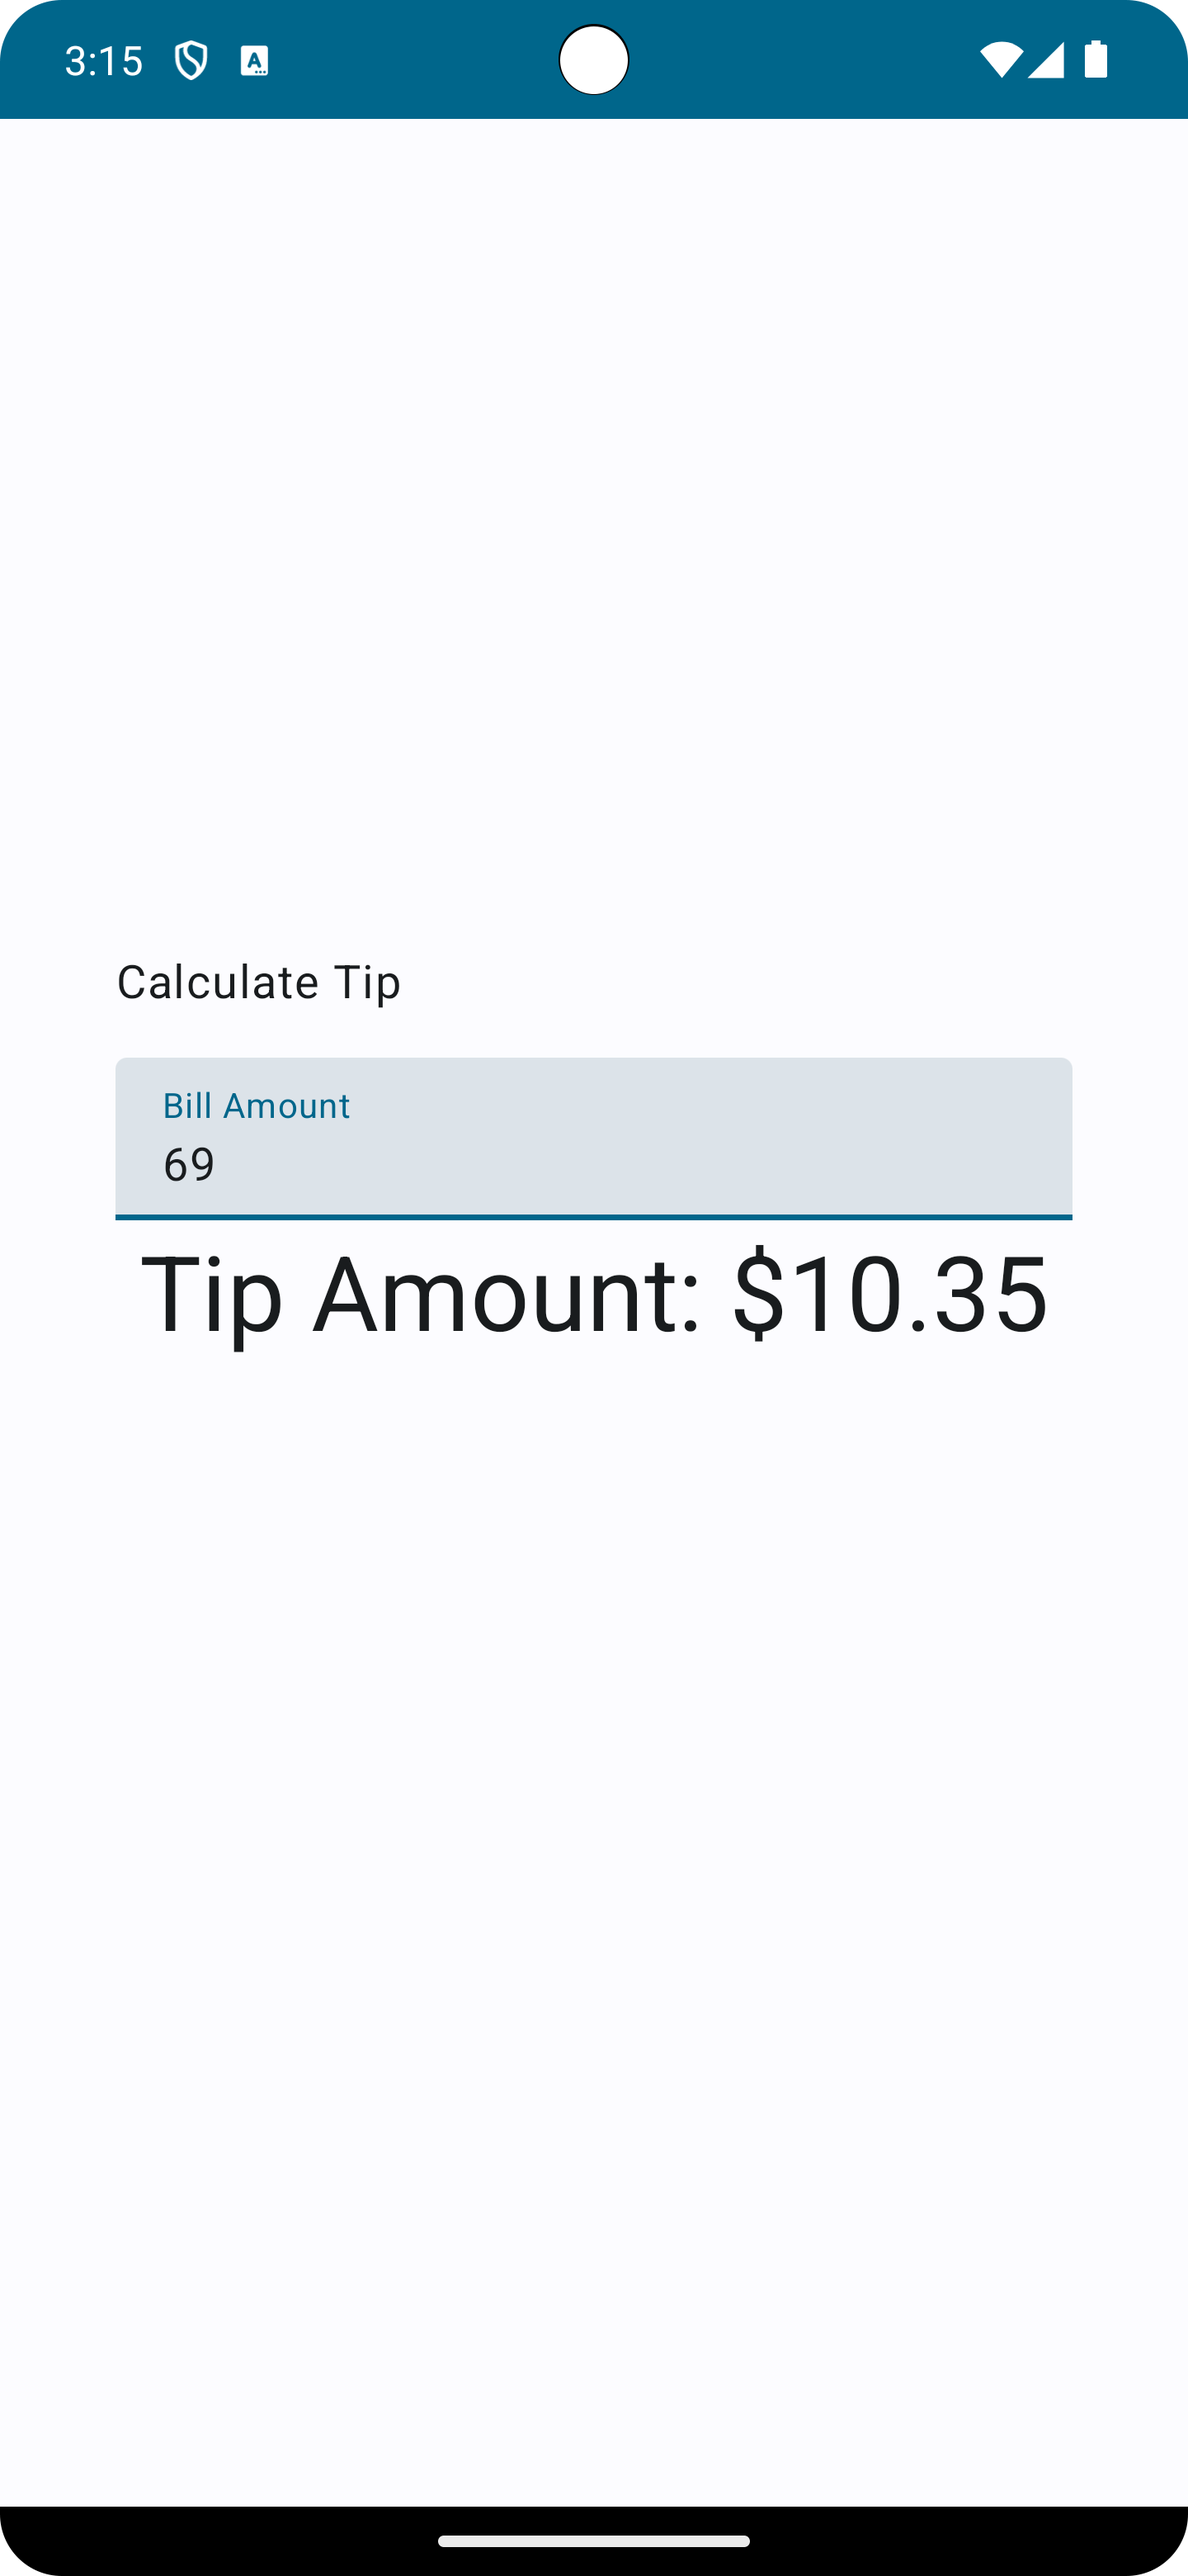
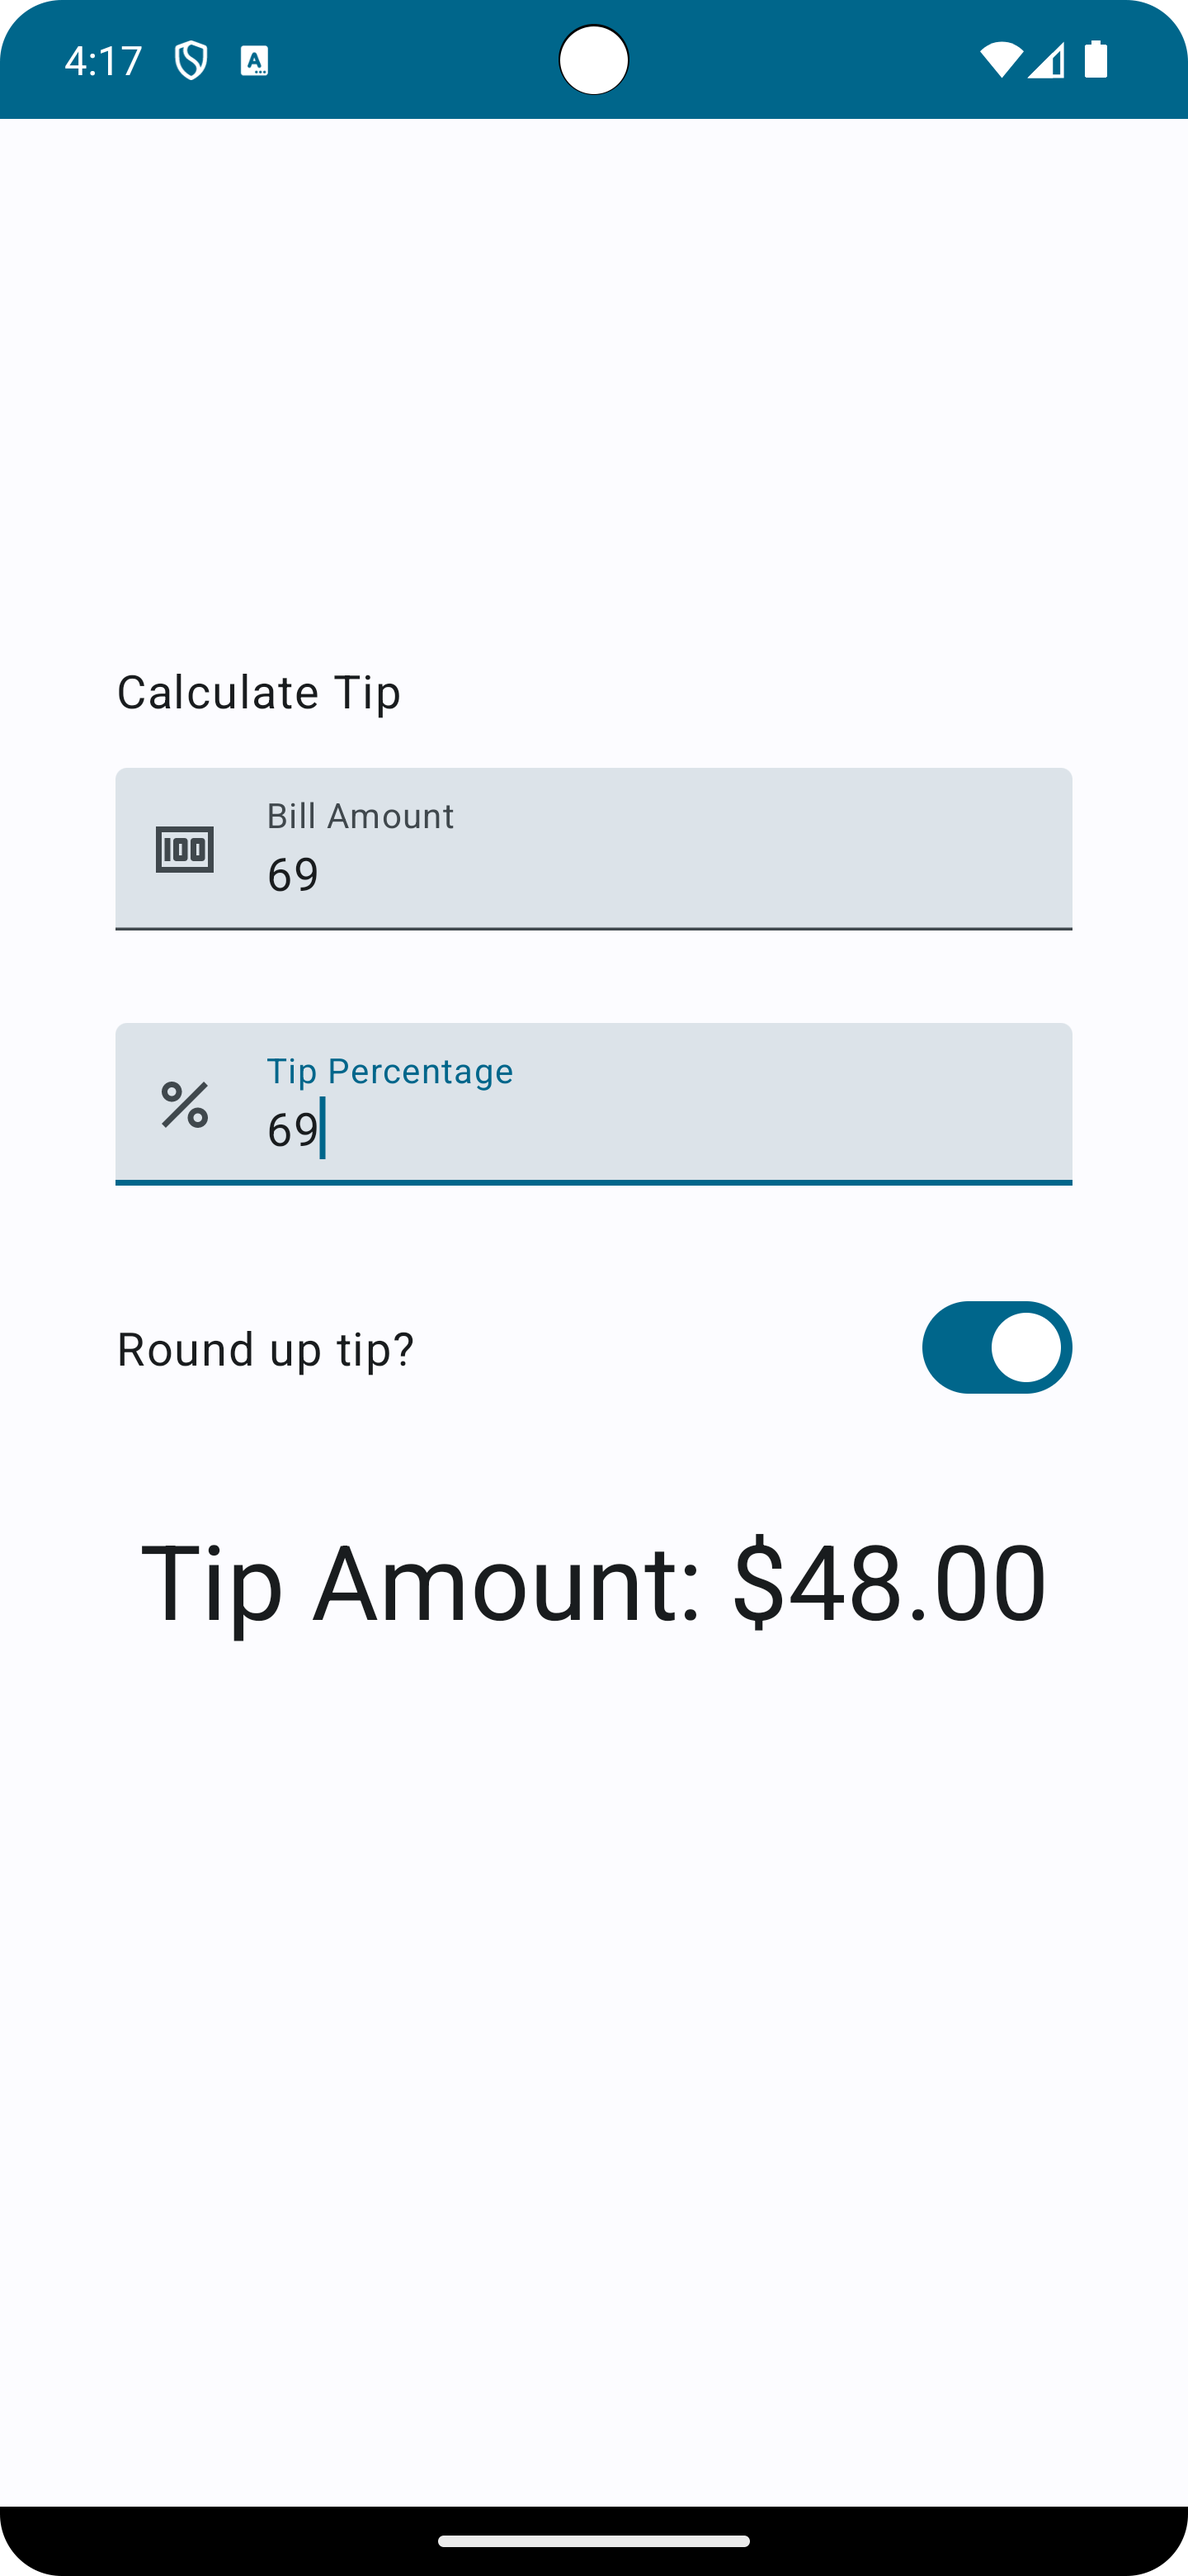
Add tests

diff --git a/TipCalculator/app/src/main/java/com/example/tipcalculator/MainActivity.kt b/TipCalculator/app/src/main/java/com/example/tipcalculator/MainActivity.kt
@@ -3,35 +3,44 @@ package com.example.tipcalculator
 import android.os.Bundle
 import androidx.activity.ComponentActivity
 import androidx.activity.compose.setContent
+import androidx.annotation.DrawableRes
+import androidx.annotation.StringRes
 import androidx.compose.foundation.layout.Arrangement
 import androidx.compose.foundation.layout.Column
+import androidx.compose.foundation.layout.Row
 import androidx.compose.foundation.layout.Spacer
 import androidx.compose.foundation.layout.fillMaxSize
 import androidx.compose.foundation.layout.fillMaxWidth
 import androidx.compose.foundation.layout.height
 import androidx.compose.foundation.layout.padding
 import androidx.compose.foundation.layout.safeDrawingPadding
+import androidx.compose.foundation.layout.size
 import androidx.compose.foundation.layout.statusBarsPadding
+import androidx.compose.foundation.layout.wrapContentWidth
 import androidx.compose.foundation.rememberScrollState
 import androidx.compose.foundation.text.KeyboardOptions
 import androidx.compose.foundation.verticalScroll
+import androidx.compose.material3.Icon
 import androidx.compose.material3.MaterialTheme
 import androidx.compose.material3.Surface
+import androidx.compose.material3.Switch
 import androidx.compose.material3.Text
 import androidx.compose.material3.TextField
 import androidx.compose.runtime.Composable
-import androidx.compose.runtime.MutableState
 import androidx.compose.runtime.getValue
 import androidx.compose.runtime.mutableStateOf
 import androidx.compose.runtime.remember
 import androidx.compose.runtime.setValue
 import androidx.compose.ui.Alignment
 import androidx.compose.ui.Modifier
+import androidx.compose.ui.res.painterResource
 import androidx.compose.ui.res.stringResource
+import androidx.compose.ui.text.input.ImeAction
 import androidx.compose.ui.text.input.KeyboardType
 import androidx.compose.ui.tooling.preview.Preview
 import androidx.compose.ui.unit.dp
 import com.example.tipcalculator.ui.theme.TipCalculatorTheme
+import org.jetbrains.annotations.VisibleForTesting
 import java.text.NumberFormat
 
 
@@ -56,9 +65,13 @@ class MainActivity : ComponentActivity() {
 @Composable
 fun TipTimeLayout() {
     var amountInput by remember { mutableStateOf("") }
+    var tipInput by remember { mutableStateOf("") }
+    var roundUp by remember { mutableStateOf(false) }
 
     val amount = amountInput.toDoubleOrNull() ?: 0.0
-    val tip = calculateTip(amount)
+    val tipPercent = tipInput.toDoubleOrNull() ?: 0.0
+
+    val tip = calculateTip(amount, tipPercent, roundUp)
 
     Column(
         modifier = Modifier
@@ -76,9 +89,35 @@ fun TipTimeLayout() {
                 .align(alignment = Alignment.Start)
         )
         EditNumberField(
+            label = R.string.bill_amount,
+            leadingIcon = R.drawable.money,
+            keyboardOptions = KeyboardOptions.Default.copy(
+                keyboardType = KeyboardType.Number,
+                imeAction = ImeAction.Next
+            ),
             value = amountInput,
-            onValueChange = { amountInput = it },
-            modifier = Modifier.padding(bottom = 32.dp).fillMaxWidth()
+            onValueChanged = { amountInput = it },
+            modifier = Modifier
+                .padding(bottom = 32.dp)
+                .fillMaxWidth()
+        )
+        EditNumberField(
+            label = R.string.how_was_the_service,
+            leadingIcon = R.drawable.percent,
+            keyboardOptions = KeyboardOptions.Default.copy(
+                keyboardType = KeyboardType.Number,
+                imeAction = ImeAction.Done
+            ),
+            value = tipInput,
+            onValueChanged = { tipInput = it },
+            modifier = Modifier
+                .padding(bottom = 32.dp)
+                .fillMaxWidth()
+        )
+        RoundTheTipRow(
+            roundUp = roundUp,
+            onRoundUpChanged = { roundUp = it },
+            modifier = Modifier.padding(bottom = 32.dp)
         )
         Text(
             text = stringResource(R.string.tip_amount, tip),
@@ -90,24 +129,57 @@ fun TipTimeLayout() {
 
 @Composable
 fun EditNumberField(
+    @StringRes label: Int,
+    @DrawableRes leadingIcon: Int,
+    keyboardOptions: KeyboardOptions,
     value: String,
-    onValueChange: (String) -> Unit,
+    onValueChanged: (String) -> Unit,
     modifier: Modifier = Modifier
 ) {
-
-
     TextField(
         value = value,
-        onValueChange = onValueChange,
-        modifier = Modifier.fillMaxWidth(),
-        label = { Text(stringResource(R.string.bill_amount)) },
+        leadingIcon = { Icon(painter = painterResource(id = leadingIcon), null) },
+        onValueChange = onValueChanged,
+        modifier = modifier,
+        label = { Text(stringResource(label)) },
         singleLine = true,
-        keyboardOptions = KeyboardOptions(keyboardType = KeyboardType.Number),
+        keyboardOptions = keyboardOptions
     )
 }
 
-private fun calculateTip(amount: Double, tipPercent: Double = 15.0): String {
-    val tip = tipPercent / 100 * amount
+@Composable
+fun RoundTheTipRow(
+    roundUp: Boolean,
+    onRoundUpChanged: (Boolean) -> Unit,
+    modifier: Modifier = Modifier
+) {
+    Row(
+        modifier = modifier
+            .fillMaxWidth()
+            .size(48.dp),
+        verticalAlignment = Alignment.CenterVertically
+    ) {
+        Text(text = stringResource(R.string.round_up_tip))
+        Switch(
+            modifier = Modifier
+                .fillMaxWidth()
+                .wrapContentWidth(Alignment.End),
+            checked = roundUp,
+            onCheckedChange = onRoundUpChanged,
+        )
+    }
+}
+
+@VisibleForTesting
+internal fun calculateTip(
+    amount: Double,
+    tipPercent: Double = 15.0,
+    roundUp: Boolean
+): String {
+    var tip = tipPercent / 100 * amount
+    if (roundUp) {
+        tip = kotlin.math.ceil(tip)
+    }
     return NumberFormat.getCurrencyInstance().format(tip)
 }
 

diff --git a/TipCalculator/app/src/androidTest/java/com/example/tipcalculator/TipUITests.kt b/TipCalculator/app/src/androidTest/java/com/example/tipcalculator/TipUITests.kt
@@ -1,0 +1,31 @@
+package com.example.tipcalculator
+
+import androidx.compose.ui.test.junit4.createComposeRule
+import androidx.compose.ui.test.onNodeWithText
+import androidx.compose.ui.test.performTextInput
+import com.example.tipcalculator.ui.theme.TipCalculatorTheme
+import org.junit.Rule
+import org.junit.Test
+import java.text.NumberFormat
+
+class TipUITests {
+    @get:Rule
+    val composeTestRule = createComposeRule()
+
+    @Test
+    fun calculate_20_percent_tip() {
+        composeTestRule.setContent {
+            TipCalculatorTheme {
+                TipTimeLayout()
+            }
+        }
+        composeTestRule.onNodeWithText("Bill Amount")
+            .performTextInput("10")
+        composeTestRule.onNodeWithText("Tip Percentage")
+            .performTextInput("20")
+        val expectedTip = NumberFormat.getCurrencyInstance().format(2)
+        composeTestRule.onNodeWithText("Tip Amount: $expectedTip").assertExists(
+            "No node with this text was found."
+        )
+    }
+}

diff --git a/TipCalculator/app/src/test/java/com/example/tipcalculator/TipCalculatorTests.kt b/TipCalculator/app/src/test/java/com/example/tipcalculator/TipCalculatorTests.kt
@@ -1,0 +1,17 @@
+package com.example.tipcalculator
+
+import junit.framework.TestCase.assertEquals
+import org.junit.Test
+import java.text.NumberFormat
+
+class TipCalculatorTests {
+
+    @Test
+    fun calculateTip_20PercentNoRoundup() {
+        val amount = 10.00
+        val tipPercent = 20.00
+        val expectedTip = NumberFormat.getCurrencyInstance().format(2)
+        val actualTip = calculateTip(amount = amount, tipPercent = tipPercent, false)
+        assertEquals(expectedTip, actualTip)
+    }
+}
